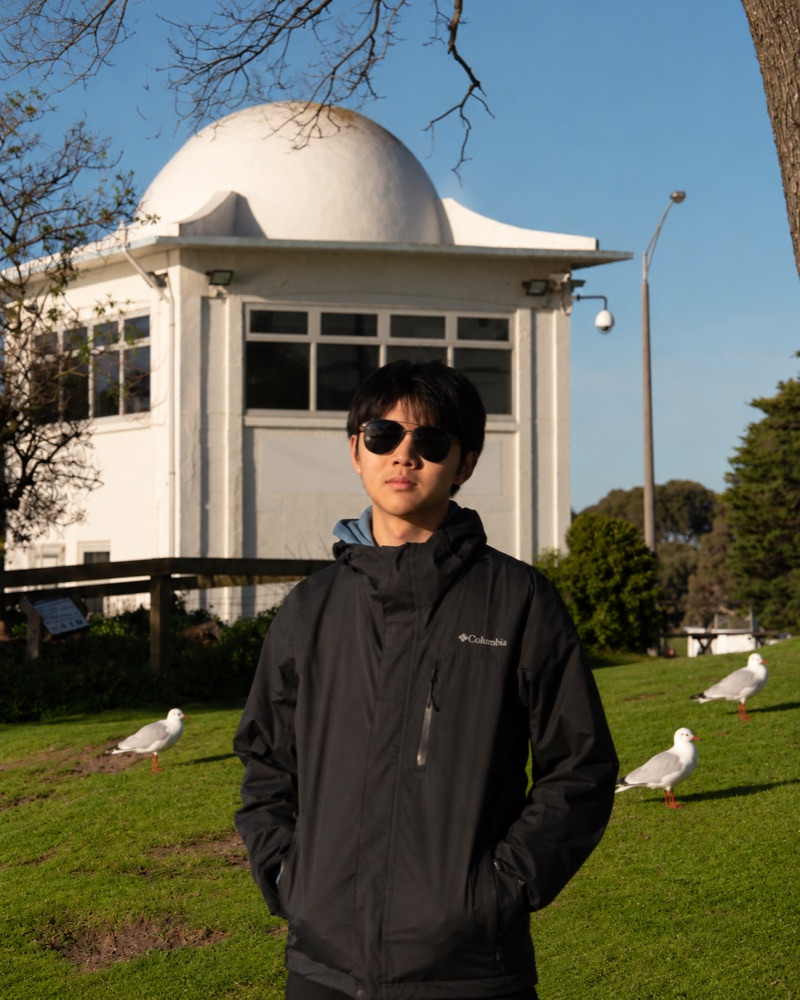
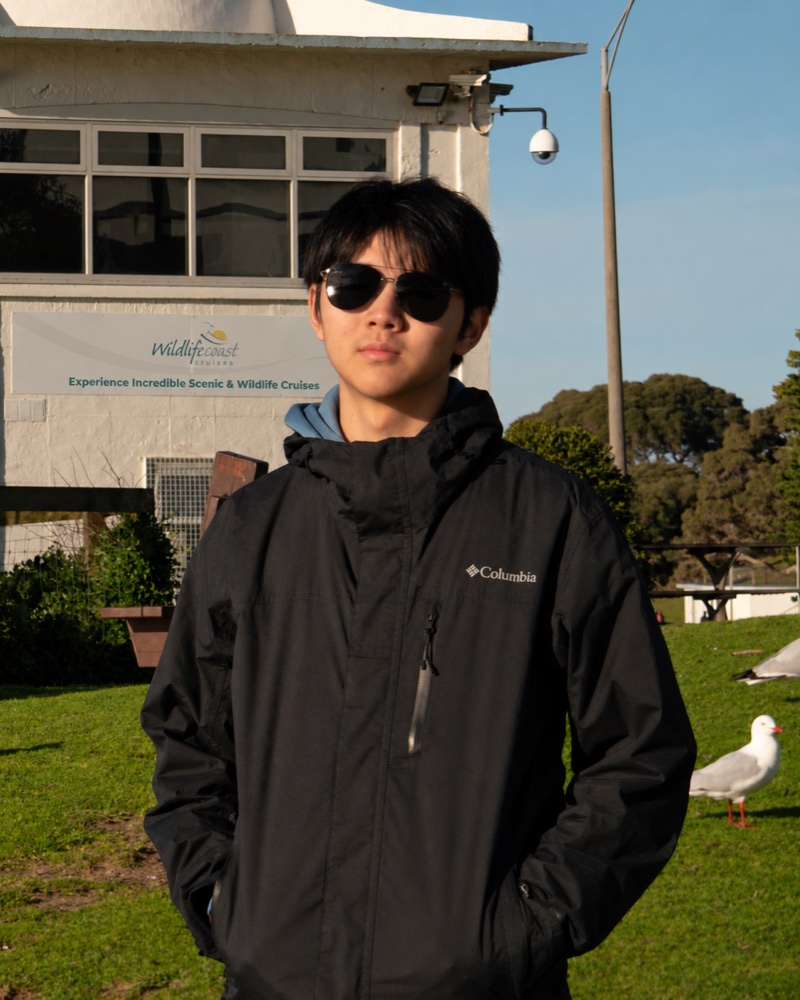
Restore foreground focus using the original portrait crop

diff --git a/index.html b/index.html
@@ -42,7 +42,7 @@
             </td>
             <td style="padding:2.5%;width:37%;max-width:37%">
               <img class="profile-photo" alt="Yinxi Wang"
-                   src="images/yinxi-wang.jpg?v=cropped-2" width="800" height="1000">
+                   src="images/yinxi-wang.jpg?v=focus-3" width="800" height="1000">
             </td>
           </tr>
         </tbody></table>
